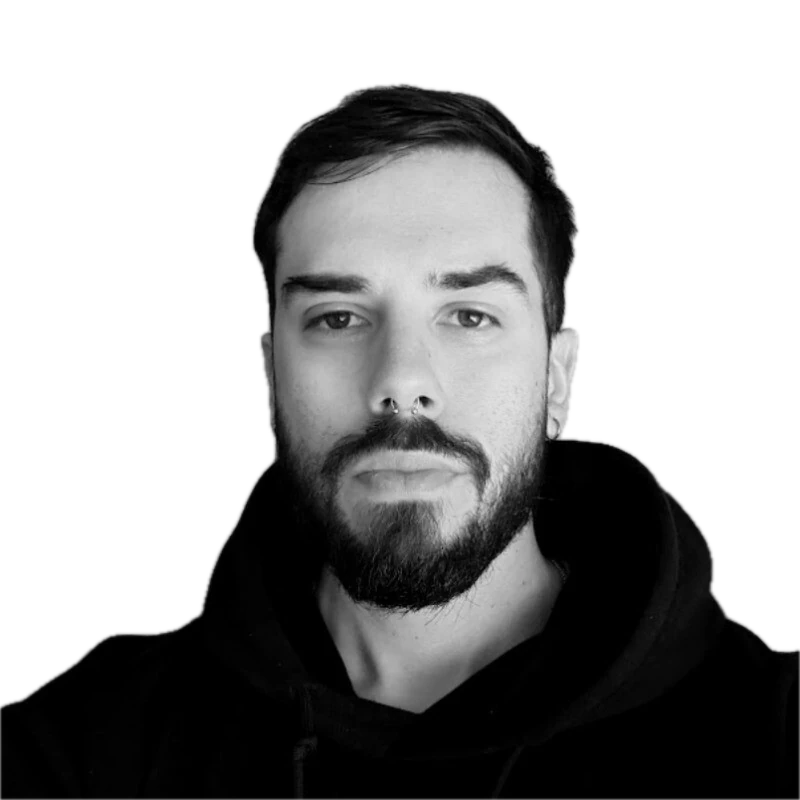
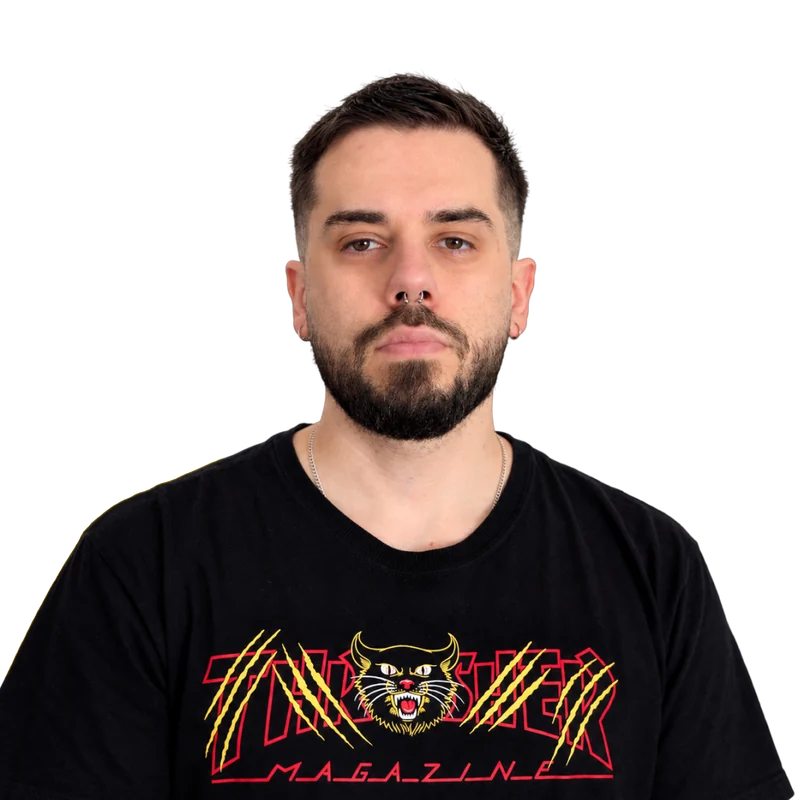
feat(conf): new speaker portraits, and Sebastián is a durazno until you hover
The three speakers get their new color portraits, each on its own brand shape
(Juan yellow, Ciro blue, Sebastián cream). On /conf Sebastián shows up as the
durazno with sunglasses and crossfades to his real face on hover or keyboard
focus.

Owy Stage follows: the talk intro cuts each person out of the new portrait and
redraws the shape behind them, now traced in the portraits' 1080 coordinates.
Shapes are keyed by colour instead of flag/circle/triangle. Juan's slot moves
right so his shape clears the text column. The Speakers list keeps the durazno;
Sebastián's own talk intro shows his face.

diff --git a/src/components/OwyStage/scenes/speakers.tsx b/src/components/OwyStage/scenes/speakers.tsx
@@ -15,39 +15,31 @@ import { Rise } from "./parts";
 
 const names = (talk: Talk) => talk.speakers.map(({ name }) => name).join(" y ");
 
-const SHAPE_FILL: Record<Speaker["shape"], string> = {
-  flag: BRAND.yellow,
-  circle: BRAND.cream,
-  triangle: BRAND.blue,
-};
-
-/* The site portraits' shapes, drawn over each cutout's box in the site's 640 coordinates. The circle floats above the head
-   instead of behind it: Ciro's cutout fades out at the top (his photo crops the hair) and that fade must land on black. */
-const SHAPES: Record<Speaker["shape"], { origin: string; node: React.ReactNode }> = {
-  flag: {
-    origin: "71% 33%",
-    node: <polygon fill={BRAND.yellow} points="285,43 621,43 621,378 453,210 285,378" />,
-  },
-  circle: { origin: "85% 16%", node: <circle cx="545" cy="105" fill={BRAND.cream} r="90" /> },
-  triangle: { origin: "26% 39%", node: <polygon fill={BRAND.blue} points="52,49 52,450 447,250" /> },
+/* The site portraits' shapes, drawn over each cutout's box in the portraits' 1080 coordinates. Their visible edges are
+   traced from the portraits; the edges hidden behind the person run deep enough under them to stay hidden while drifting. */
+const SHAPES: Record<Speaker["shape"], { origin: string; points: string }> = {
+  yellow: { origin: "14% 62%", points: "0,431.5 299,259 299,1080 70,1080 0,905" },
+  blue: { origin: "80% 66%", points: "640,350.5 1080,531.5 1080,1080 640,1080" },
+  cream: { origin: "23% 41%", points: "85,8.5 500,226 500,1100 85,868.5" },
 };
 
 /** A speaker's slot in the 1920 frame: square box, bottom-anchored, measured from the right edge */
 type Slot = { size: number; right: number };
 
 /* Two people share the frame shoulder to shoulder, one gets it to themself. Portraits sit on the right so
-   cutouts cropped at their right edge (Ciro's) end off-frame. */
+   cutouts cropped at their right edge end off-frame; the left slot starts past the text column, since Juan's
+   shape sits at the left edge of his portrait. */
 const LAYOUTS: Record<number, Slot[]> = {
   1: [{ size: 980, right: -40 }],
   2: [
-    { size: 800, right: 394 },
+    { size: 800, right: 260 },
     { size: 800, right: -20 },
   ],
 };
 
 /** Assembles in, then keeps drifting. */
 function ShapeLayer({ shape, slot, delay }: { shape: Speaker["shape"]; slot: Slot; delay: number }) {
-  const { origin, node } = SHAPES[shape];
+  const { origin, points } = SHAPES[shape];
 
   return (
     <span
@@ -61,8 +53,8 @@ function ShapeLayer({ shape, slot, delay }: { shape: Speaker["shape"]; slot: Slo
       }}
     >
       <span className="block h-full w-full animate-drift" style={{ animationDelay: `${delay + 0.7}s` }}>
-        <svg aria-hidden="true" className="h-full w-full" viewBox="0 0 640 640">
-          {node}
+        <svg aria-hidden="true" className="h-full w-full" viewBox="0 0 1080 1080">
+          <polygon fill={BRAND[shape]} points={points} />
         </svg>
       </span>
     </span>
@@ -130,10 +122,7 @@ export function TalkIntro(props: SceneProps<"talk-intro">) {
               initial={{ opacity: 0, x: -40 }}
               transition={{ duration: 0.6, delay: 0.9 + i * 0.15, ease: EASE_OUT }}
             >
-              <span
-                className="mt-3 h-[26px] w-[26px] shrink-0 rounded-full"
-                style={{ background: SHAPE_FILL[shape] }}
-              />
+              <span className="mt-3 h-[26px] w-[26px] shrink-0 rounded-full" style={{ background: BRAND[shape] }} />
               <span>
                 <span className="block text-[50px] leading-none font-extrabold text-[#F5BB03] uppercase">{name}</span>
                 <span className="mt-2 block text-[30px] text-[#FBF5E7]/70">{role}</span>
@@ -181,7 +170,7 @@ export function Speakers({ params }: SceneProps<"speakers">) {
                   animate={{ scale: 1, rotate: 0 }}
                   className={`h-[210px] w-[210px] overflow-hidden rounded-full ring-[8px] ring-black ${j ? "-ml-10" : ""}`}
                   initial={{ scale: 0, rotate: -25 }}
-                  style={{ background: SHAPE_FILL[shape] }}
+                  style={{ background: BRAND[shape] }}
                   transition={{ type: "spring", stiffness: 140, damping: 14, delay: 0.55 + i * 0.2 + j * 0.12 }}
                 >
                   <img alt={name} className="h-full w-full object-cover" src={picture} />

diff --git a/src/app/conf/talks.ts b/src/app/conf/talks.ts
@@ -2,10 +2,12 @@ export type Speaker = {
   name: string;
   /** Cutout composited over its brand shape, like the team portraits */
   picture: string;
-  /** The person alone in a bottom-anchored square, for Owy Stage to animate apart from the shape */
+  /** The real face behind a disguised `picture`: the site crossfades to it on hover */
+  reveal?: string;
+  /** The person alone, framed like `picture`, for Owy Stage to animate apart from the shape */
   cutout: string;
-  /** The brand shape baked into `picture` */
-  shape: "flag" | "circle" | "triangle";
+  /** Colour of the brand shape baked into `picture` (each speaker's is drawn in speakers.tsx) */
+  shape: "yellow" | "blue" | "cream";
   role: string;
   linkedin: string;
 };
@@ -31,9 +33,10 @@ export const TALKS: Talk[] = [
     speakers: [
       {
         name: "Sebastián Passaro",
-        picture: "/images/conf/speakers/sebastian-passaro.webp",
+        picture: "/images/conf/speakers/sebastian-passaro-durazno.webp",
+        reveal: "/images/conf/speakers/sebastian-passaro.webp",
         cutout: "/images/conf/speakers/sebastian-passaro-cutout.webp",
-        shape: "triangle",
+        shape: "cream",
         role: "Cybersecurity Specialist, Qubika",
         linkedin: "https://www.linkedin.com/in/sebastian-passaro/",
       },
@@ -51,7 +54,7 @@ export const TALKS: Talk[] = [
         name: "Juan Pais",
         picture: "/images/conf/speakers/juan-pais.webp",
         cutout: "/images/conf/speakers/juan-pais-cutout.webp",
-        shape: "flag",
+        shape: "yellow",
         role: "Producer, Ironhide Game Studio",
         linkedin: "https://www.linkedin.com/in/juan-pais/",
       },
@@ -59,7 +62,7 @@ export const TALKS: Talk[] = [
         name: "Ciro Mondueri",
         picture: "/images/conf/speakers/ciro-mondueri.webp",
         cutout: "/images/conf/speakers/ciro-mondueri-cutout.webp",
-        shape: "circle",
+        shape: "blue",
         role: "Game Programmer, Ironhide Game Studio",
         linkedin: "https://uy.linkedin.com/in/ciro-mondueri-465624256",
       },

diff --git a/src/app/conf/components/Team.tsx b/src/app/conf/components/Team.tsx
@@ -99,22 +99,32 @@ export const TEAM_2026: TeamMember[] = [
 type PersonCardProps = {
   name: string;
   picture: string;
+  /** Crossfades in over `picture` on hover or keyboard focus */
+  reveal?: string;
   role: string;
   linkedin?: string;
   placement: ConfLinkPlacement;
 };
 
 /* Portrait, name and role; links to LinkedIn when there is one. Shared with Speakers. */
-export function PersonCard({ name, picture, role, linkedin, placement }: PersonCardProps) {
+export function PersonCard({ name, picture, reveal, role, linkedin, placement }: PersonCardProps) {
   const tile = (
     <>
       <div className="relative mx-auto aspect-square w-full max-w-[240px]">
         <img
           alt={`Fotografía de ${name}`}
-          className="h-full w-full object-contain transition-transform duration-300 group-hover:scale-[1.03]"
+          className={`h-full w-full object-contain transition duration-300 group-hover:scale-[1.03] ${reveal ? "group-hover:opacity-0 group-focus-visible:opacity-0" : ""}`}
           loading="lazy"
           src={picture}
         />
+        {reveal && (
+          <img
+            alt=""
+            className="absolute inset-0 h-full w-full object-contain opacity-0 transition duration-300 group-hover:scale-[1.03] group-hover:opacity-100 group-focus-visible:opacity-100"
+            loading="lazy"
+            src={reveal}
+          />
+        )}
       </div>
       <p className="mt-5 text-center font-display text-base leading-none font-bold text-[#F5BB03] uppercase">{name}</p>
       <p className="mt-2 text-center text-sm leading-5 text-[#FBF5E7]/85">{role}</p>

diff --git a/src/app/conf/components/Speakers.tsx b/src/app/conf/components/Speakers.tsx
@@ -14,7 +14,7 @@ export default function Speakers() {
         {TALKS.map(({ title, description, speakers }) => (
           <article key={title} className="grid items-start gap-10 lg:grid-cols-[minmax(0,5fr)_minmax(0,7fr)] lg:gap-16">
             <ul className="flex justify-center gap-6">
-              {speakers.map(({ name, picture, role, linkedin }, i) => (
+              {speakers.map(({ name, picture, reveal, role, linkedin }, i) => (
                 <li key={name} className="w-full max-w-[240px] flex-1">
                   <Reveal amount={0.3} delay={i * 0.09} scale={0.93} y={34}>
                     <PersonCard
@@ -22,6 +22,7 @@ export default function Speakers() {
                       name={name}
                       picture={picture}
                       placement="speakers-linkedin"
+                      reveal={reveal}
                       role={role}
                     />
                   </Reveal>
